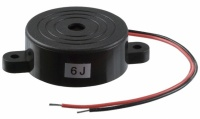
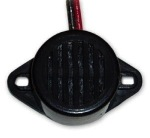
Finished citing/uploading software/hardware images

diff --git a/Learn/Hardware.html b/Learn/Hardware.html
@@ -35,7 +35,7 @@
         <!-- Collect the nav links, forms, and other content for toggling -->
         <div class="collapse navbar-collapse" id="bs-example-navbar-collapse-1">
           <ul class="nav navbar-nav">
-            <li><a href="../FrontPage/FrontPage.html">Home</a></li>
+            <li><a href="index.html">Home</a></li>
 
              <li class="dropdown active">
               <a href="#" class="dropdown-toggle" data-toggle="dropdown">Learn<span class="caret"></span></a>
@@ -81,7 +81,7 @@
    <div class="container">
     <div class="row">
       <div class="col-xs-2 col-md-2">
-        </br></br></br><img class="img-circle" src="Images/hardware-header.png" alt="Learn" style="width: 140px; height: 140px;">
+        </br></br></br><img class="img-circle" src="http://i.imgur.com/dZnIkFA.png" alt="Learn" style="width: 140px; height: 140px;">
       </div>
       <div class="col-xs-10 col-md-10">
         <div class="page-header">
@@ -126,7 +126,8 @@
 
                 </div><!--col-->
                 <div class="col-xs-4 col-med-4">
-                  <img src="Images/hardware-1.png" alt="Arduino" class="img-thumbnail" style="margin:10px;">
+                  <img src="http://i.imgur.com/0qOQHgy.gif" alt="Arduino" class="img-thumbnail" style="margin-top:5%; margin-left:5%;">
+                  <h6 style="margin-left:5%;"><em><a href="http://commons.wikimedia.org/wiki/File:Breadboard-144dpi.gif">Breadboard-144dpi</a> by Waveguy (CC-BY-SA)</em></h6>
                 </div><!--col-->
               </div><!--row-->
             </div><!--panel-body-->
@@ -144,7 +145,8 @@
           <div id="collapseThree" class="panel-collapse collapse">
             <div class="row">
               <div class="col-xs-4 col-med-4">
-                 <img src="Images/hardware-2.png" alt="Arduino" class="img-thumbnail" style="margin-top:10px; margin-bottom:5px; margin-left:20px;">
+                 <img src="http://i.imgur.com/Egyfryr.jpg" alt="Arduino" class="img-thumbnail" style="margin-top:5%; margin-left:5%;">
+                 <h6 style="margin-left:5%;"><em><a href="http://www.digikey.com/~/media/Images/Marketing/Resources/Calculators/resistor-color-chart.jpg?la=en-US">Resistor Color Chart</a> by Digikey</em></h6>
                </div>
                <div class="col-xs-8 col-med-8">
                 <div class="panel-body">
@@ -172,7 +174,8 @@
                 </div>
               </div>
               <div class="col-xs-4 col-med-4">
-                <img src="Images/hardware-3.png" alt="Arduino" class="img-thumbnail" style="margin-top:20px; margin-right:10px;width:95%;">
+                <img src="http://i.imgur.com/XDO3TqG.png" alt="Arduino" class="img-thumbnail" style="margin-top:5%; margin-right:5%;width:95%;">
+                <h6><em><a href="http://commons.wikimedia.org/wiki/File:Tactile_switches.jpg">Tactile Switches</a> by Scwerllguy (CC-BY-SA)</em></h6>
               </div>
             </div>
           </div>
@@ -189,7 +192,8 @@
           <div id="collapseFive" class="panel-collapse collapse">
             <div class="row">
               <div class="col-xs-4 col-med-4">
-                <img src="Images/hardware-4.jpg" alt="Arduino" class="img-thumbnail" style="margin-top:30px; margin-bottom:10px;margin-left:15px; margin-right:5px;">
+                <img src="http://i.imgur.com/VwULkhg.jpg" alt="Arduino" class="img-thumbnail" style="margin-top:5%;margin-left:5%;">
+                <h6 style="margin-left:5%"><em><a href="http://www.instructables.com/file/FV00U508ZPEP27TMES/">Image</a> by Q-Branch (CC-BY-NC-SA)</em></h6>
               </div>
               <div class="col-xs-8 col-med-8">
                 <div class="panel-body">
@@ -214,12 +218,13 @@
             <div class="row">
               <div class="col-xs-8 col-med-8">
                 <div class="panel-body">
-                  </br>
+                  </br></br>
                   These displays have the same layout as the digits on a typical digital alarm clock. There are generally nine pins per digit: one for each segment, one for the decimal point, and one for either power or ground (power on common anode, ground on common cathode). Check your datasheet or just experiment to find out which pin corresponds to which segment. As you can imagine, it quickly gets annoying to plug in nine wires per digit, especially if you want to use more than one. To solve this problem, you can use LED driver chips like the Max7219 to do your work for you. Instead of needing nine pins on the Arduino, the Max7219 only needs three. This frees up your available pins and leaves you lots of room for other components.
                 </div>
               </div>
               <div class="col-xs-4 col-med-4">
-               <img src="Images/hardware-5.png" alt="Arduino" class="img-thumbnail" style="width:95%; margin:10px; height:200px;">
+               <img src="http://i.imgur.com/xzLSaGM.jpg" alt="Arduino" class="img-thumbnail" style="width:70%;margin-left:10%;margin-top:5%;">
+               <h6 style="margin-left:10%"><em><a href="http://commons.wikimedia.org/wiki/File:7_Segment_LED.jpg">7 Segment LED</a> by Haragayato (CC-BY-SA)</em></h6>
               </div>
             </div>
           </div>
@@ -237,12 +242,13 @@
             <div class="row">
               <div class="col-xs-8 col-med-8">
                 <div class="panel-body">
-                </br></br>
+                </br></br></br>
                   The simplest speaker we’ll be using is actually a piezoelectric buzzer, which is driven by an oscillating electric circuit (don’t worry if you don’t know what that means). A speaker requires analog input, or else it’ll just play one pitch, so you have to plug it into one of the PWM pins on your Arduino. You’ll use the tone library to output the correct frequency to the speaker so it plays the note you want. Like an LED, the speaker requires a resistor in series to work correctly.
                 </div>
               </div>
               <div class="col-xs-4 col-med-4">
-                <img src="Images/hardware-6.jpg" alt="Arduino" class="img-thumbnail" style="margin-right:20px; margin-top:10px; margin-bottom:10px; width:95%;">
+                <img src="http://i.imgur.com/LuwDHqF.jpg" alt="Arduino" class="img-thumbnail" style="margin-left:15%; margin-top:5%; width:60%;">
+                <h6 style="margin-left:15%"><em><a href="http://commons.wikimedia.org/wiki/File:BUZZER_NEGRO.jpg">Black Buzzer</a> by MaodeColumbia (CC-BY-SA)</em></h6>
               </div>
             </div>
           </div>
@@ -259,11 +265,12 @@
           <div id="collapseEight" class="panel-collapse collapse">
             <div class="row">
               <div class="col-xs-4 col-med-4">
-                <img src="Images/hardware-7.jpg" alt="Arduino" class="img-thumbnail" style="margin-top:10px; margin-left:60px; margin-bottom:10px; height:175px;">
+                <img src="http://i.imgur.com/r2fA91t.jpg" alt="Arduino" class="img-thumbnail" style="width:80%;margin-top:5%; margin-left:15%;">
+                <h6 style="margin-left:15%"><em><a href="http://commons.wikimedia.org/wiki/File:10k_Ohm_Breadboard_Compatible_Potentiometer.jpg">Breadboard Potentiometer</a> by bomazi (CC-BY-SA)</em></h6>
               </div>
               <div class="col-xs-8 col-med-8">
                 <div class="panel-body">
-                  </br>
+                  </br></br>
                   A potentiometer is a variable resistor. The amount of resistance changes when you turn the knob. The actual values vary based on your potentiometer; a typical potentiometer might, for instance, be capable of providing between 0 and 10,000 ohms of resistance. Potentiometers have three terminals: one for input, one for output, and one for ground. If you wanted to vary the brightness of an LED, for instance, you’d connect power to the input terminal, output to the positive leg of the LED, and then ground to ground. You can also use a potentiometer for analog input on your Arduino.
                 </div>
               </div>
@@ -283,12 +290,13 @@
             <div class="row">
               <div class="col-xs-8 col-med-8">
                 <div class="panel-body">
-                  </br>
+                  </br></br>
                   This is another variable resistor, but instead of turning a switch, you change the value based on light. The darker the surrounding area, the higher the resistance. Light gives the electrons in the photoresistor enough energy to flow through the conducting area. Like the potentiometer, this can also be used as analog input. If you want a light to grow brighter when the room gets darker, for instance, you won’t be able to plug it in directly, or the resistance will decrease with increasing brightness. You’ll have to take in the value, do some calculations, and output the new value to your light. Photoresistors can also be used as primitive motion detectors if something passes above them, causing a temporary shadow.
                 </div>
               </div>
               <div class="col-xs-4 col-med-4">
-                <img src="Images/hardware-8.png" alt="Arduino" class="img-thumbnail" style="width:95%; margin-top:10px; margin-bottom:10px; margin-right:25px;">
+                <img src="http://i.imgur.com/0PBRbXq.jpg" alt="Arduino" class="img-thumbnail" style="margin-top:5%;margin-left:15%;">
+                <h6 style="margin-left:15%"><em><a href="http://commons.wikimedia.org/wiki/File:Photoresistor.jpg">Photoresistor</a> by Analogauthority (Public Domain)</em></h6>
               </div>
             </div>
           </div>
@@ -311,7 +319,8 @@
                 </div>
               </div>
               <div class="col-xs-4 col-med-4">
-                <img src="Images/hardware-9.png" alt="Arduino" class="img-thumbnail" style="margin:10px; width:95%;">
+                <img src="http://i.imgur.com/9duujb7.png" alt="Arduino" class="img-thumbnail" style="margin-top:5%; margin-right:10%;width:90%;">
+                <h6 style="margin-right:10%"><em><a href="http://commons.wikimedia.org/wiki/File:Photo-SMDcapacitors.jpg">SMDCapacitors</a> by Demoeconomist (Public Domain)</em></h6>
               </div>
             </div>
           </div>
@@ -345,6 +354,7 @@
 
     <div id="footer">
       <div class="container">
+        <p class="text-muted"><em>Header image based on <a href="http://commons.wikimedia.org/wiki/File:Componentes.JPG">Componentes</a> by Kae (Public Domain)</em></p>
         <p class="text-muted">Built on Bootstrap by Kristen Pownell</p>
       </div>
     </div>

diff --git a/Learn/Software.html b/Learn/Software.html
@@ -35,7 +35,7 @@
         <!-- Collect the nav links, forms, and other content for toggling -->
         <div class="collapse navbar-collapse" id="bs-example-navbar-collapse-1">
           <ul class="nav navbar-nav">
-            <li><a href="../FrontPage/FrontPage.html">Home</a></li>
+            <li><a href="../index.html">Home</a></li>
 
              <li class="dropdown active">
               <a href="#" class="dropdown-toggle" data-toggle="dropdown">Learn<span class="caret"></span></a>
@@ -81,7 +81,7 @@
    <div class="container">
     <div class="row">
       <div class="col-xs-2 col-md-2">
-        </br></br></br><img class="img-circle" src="Images/software-header.jpg" alt="Learn" style="width: 140px; height: 140px;">
+        </br></br></br><img class="img-circle" src="http://i.imgur.com/zLtvbtQ.png" alt="Learn" style="width: 140px; height: 140px;">
       </div>
       <div class="col-xs-10 col-md-10">
         <div class="page-header">
@@ -122,7 +122,7 @@
                 </div>
               </div><!--col-->
               <div class="col-xs-4 col-med-4">
-                <img src="Images/software-1.png" alt="Arduino" class="img-thumbnail" style="margin-top:10px;margin-bottom:10px; margin-right:10px;width:95%;">
+                <img src="http://i.imgur.com/rNfDrJ0.png" alt="Arduino" class="img-thumbnail" style="margin-top:5%;margin-bottom:5%; margin-right:5%;width:95%;">
               </div><!--col-->
             </div><!--row-->
           </div><!--collapseTwo-->
@@ -139,7 +139,7 @@
           <div id="collapseThree" class="panel-collapse collapse">
             <div class="row">
               <div class="col-xs-4 col-med-4">
-                 <img src="Images/software-2.png" alt="Arduino" class="img-thumbnail" style="margin-top:20px; margin-bottom:5px; margin-left:85px;">
+                 <img src="http://i.imgur.com/P5tAUHD.png" alt="Arduino" class="img-thumbnail" style="margin-top:5%; margin-bottom:5%; margin-left:25%;">
                </div>
                <div class="col-xs-8 col-med-8">
                 <div class="panel-body">
@@ -166,7 +166,7 @@
                 </div>
               </div>
               <div class="col-xs-4 col-med-4">
-                <img src="Images/software-3.png" alt="Arduino" class="img-thumbnail" style="margin-top:10px; margin-bottom:10px; margin-left:60px;">
+                <img src="http://i.imgur.com/3Trx2a2.png" alt="Arduino" class="img-thumbnail" style="margin-top:5%; margin-bottom:5%; margin-left:15%;">
               </div>
             </div>
           </div>
@@ -183,7 +183,7 @@
           <div id="collapseFive" class="panel-collapse collapse">
             <div class="row">
               <div class="col-xs-4 col-med-4">
-                <img src="Images/software-4.png" alt="Arduino" class="img-thumbnail" style="margin-top:45px; margin-bottom:10px;margin-left:15px; margin-right:5px;">
+                <img src="http://i.imgur.com/Hm8mNfP.png" alt="Arduino" class="img-thumbnail" style="margin-top:15%;margin-left:5%; margin-right:5%;">
               </div>
               <div class="col-xs-8 col-med-8">
                 <div class="panel-body">
@@ -212,7 +212,7 @@
                 </div>
               </div>
               <div class="col-xs-4 col-med-4">
-               <img src="Images/software-5.png" alt="Arduino" class="img-thumbnail" style="margin-top:10px; margin-bottom:10px; margin-left:25px;">
+               <img src="http://i.imgur.com/HYZZ9oq.png" alt="Arduino" class="img-thumbnail" style="margin-top:5%; margin-bottom:5%;margin-left:5%;">
               </div>
             </div>
           </div>
@@ -234,7 +234,7 @@
                 </div>
               </div>
               <div class="col-xs-4 col-med-4">
-                <img src="Images/software-6.png" alt="Arduino" class="img-thumbnail" style="margin-right:20px; margin-top:30px; margin-bottom:10px;">
+                <img src="http://i.imgur.com/CPAIHnt.png" alt="Arduino" class="img-thumbnail" style="margin-right:15%; margin-top:10%; margin-bottom:5%;">
               </div>
             </div>
           </div>
@@ -251,7 +251,7 @@
           <div id="collapseEight" class="panel-collapse collapse">
             <div class="row">
               <div class="col-xs-4 col-med-4">
-                <img src="Images/software-7.png" alt="Arduino" class="img-thumbnail" style="margin-top:45px; margin-left:40px; margin-bottom:10px;">
+                <img src="http://i.imgur.com/3BtCpiY.png" alt="Arduino" class="img-thumbnail" style="margin-top:12%; margin-left:12%;">
               </div>
               <div class="col-xs-8 col-med-8">
                 <div class="panel-body">
@@ -279,7 +279,7 @@
                 </div>
               </div>
               <div class="col-xs-4 col-med-4">
-                <img src="Images/software-8.png" alt="Arduino" class="img-thumbnail" style="margin-top:10px; margin-bottom:10px; margin-left:50px;">
+                <img src="http://i.imgur.com/Ho780HM.png" alt="Arduino" class="img-thumbnail" style="margin-top:5%; margin-bottom:5%; margin-left:10%;">
               </div>
             </div>
           </div>
@@ -301,7 +301,7 @@
                 </div>
               </div>
               <div class="col-xs-4 col-med-4">
-                <img src="Images/software-9.png" alt="Arduino" class="img-thumbnail" style="margin-top:10px; margin-bottom:10px; width:95%; margin-right:10px;">
+                <img src="http://i.imgur.com/kaq5T9P.png" alt="Arduino" class="img-thumbnail" style="margin-top:5%; margin-bottom:5%; width:95%; margin-right:5%;">
               </div>
             </div>
           </div>
@@ -313,6 +313,7 @@
 
     <div id="footer">
       <div class="container">
+        <p class="text-muted"><em>Header image based on <a href="http://en.wikipedia.org/wiki/File:Arduino_1.0_IDE,_Ubuntu_11.10.png">Arduino 1.0 IDE</a> by Lemio (CC-BY-SA)</em></p>
         <p class="text-muted">Built on Bootstrap by Kristen Pownell</p>
       </div>
     </div>
